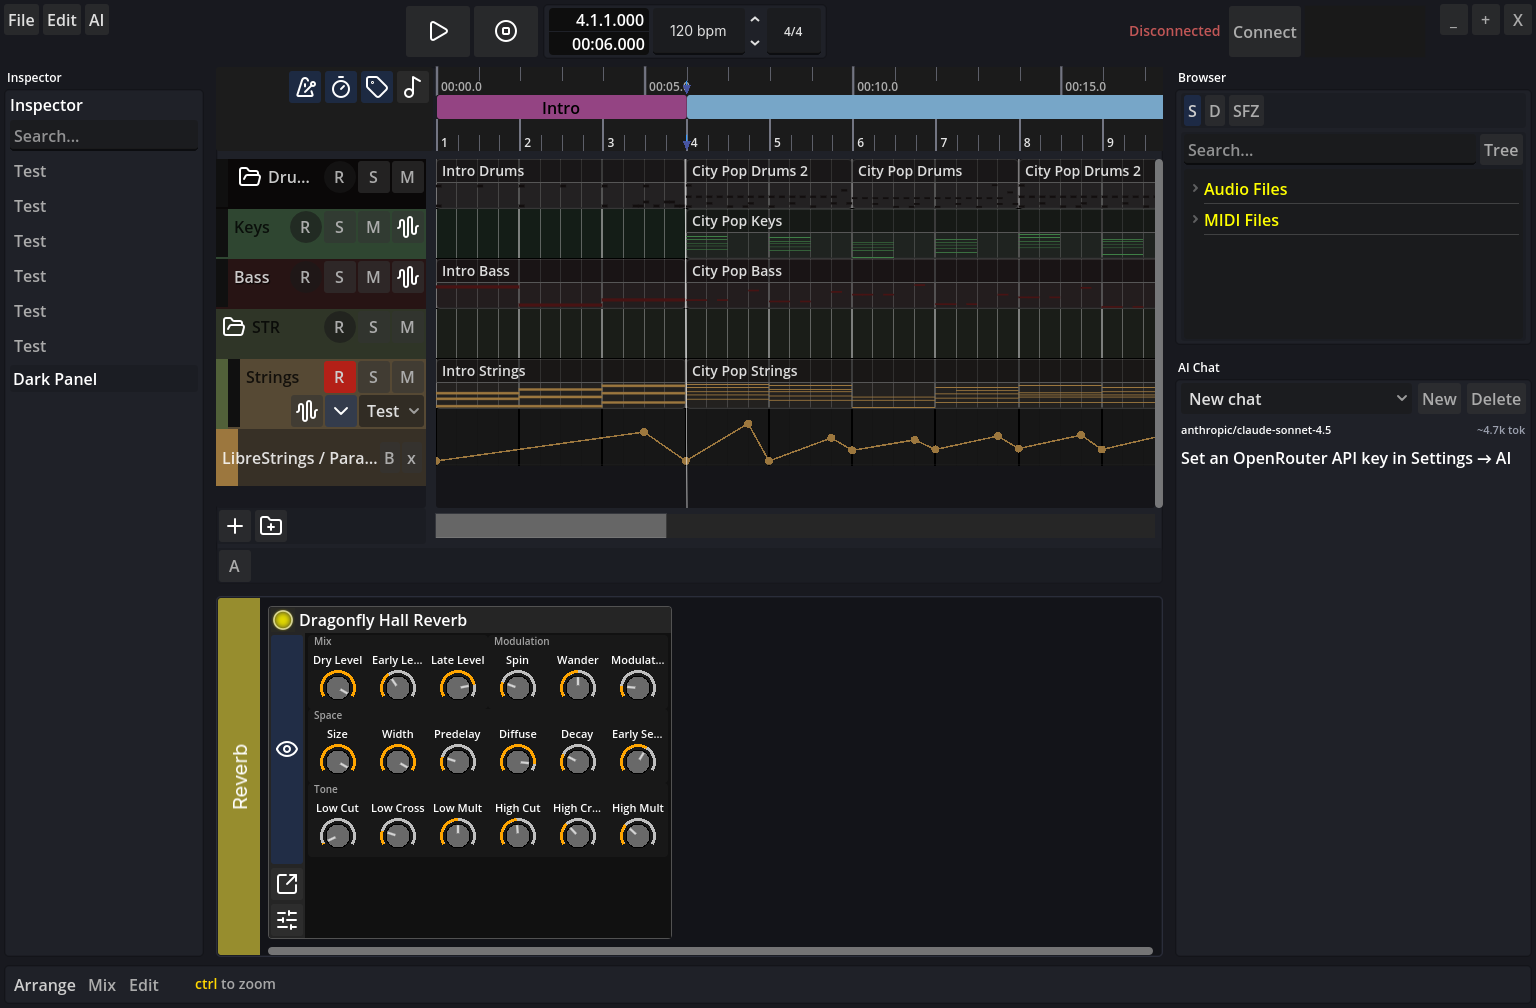
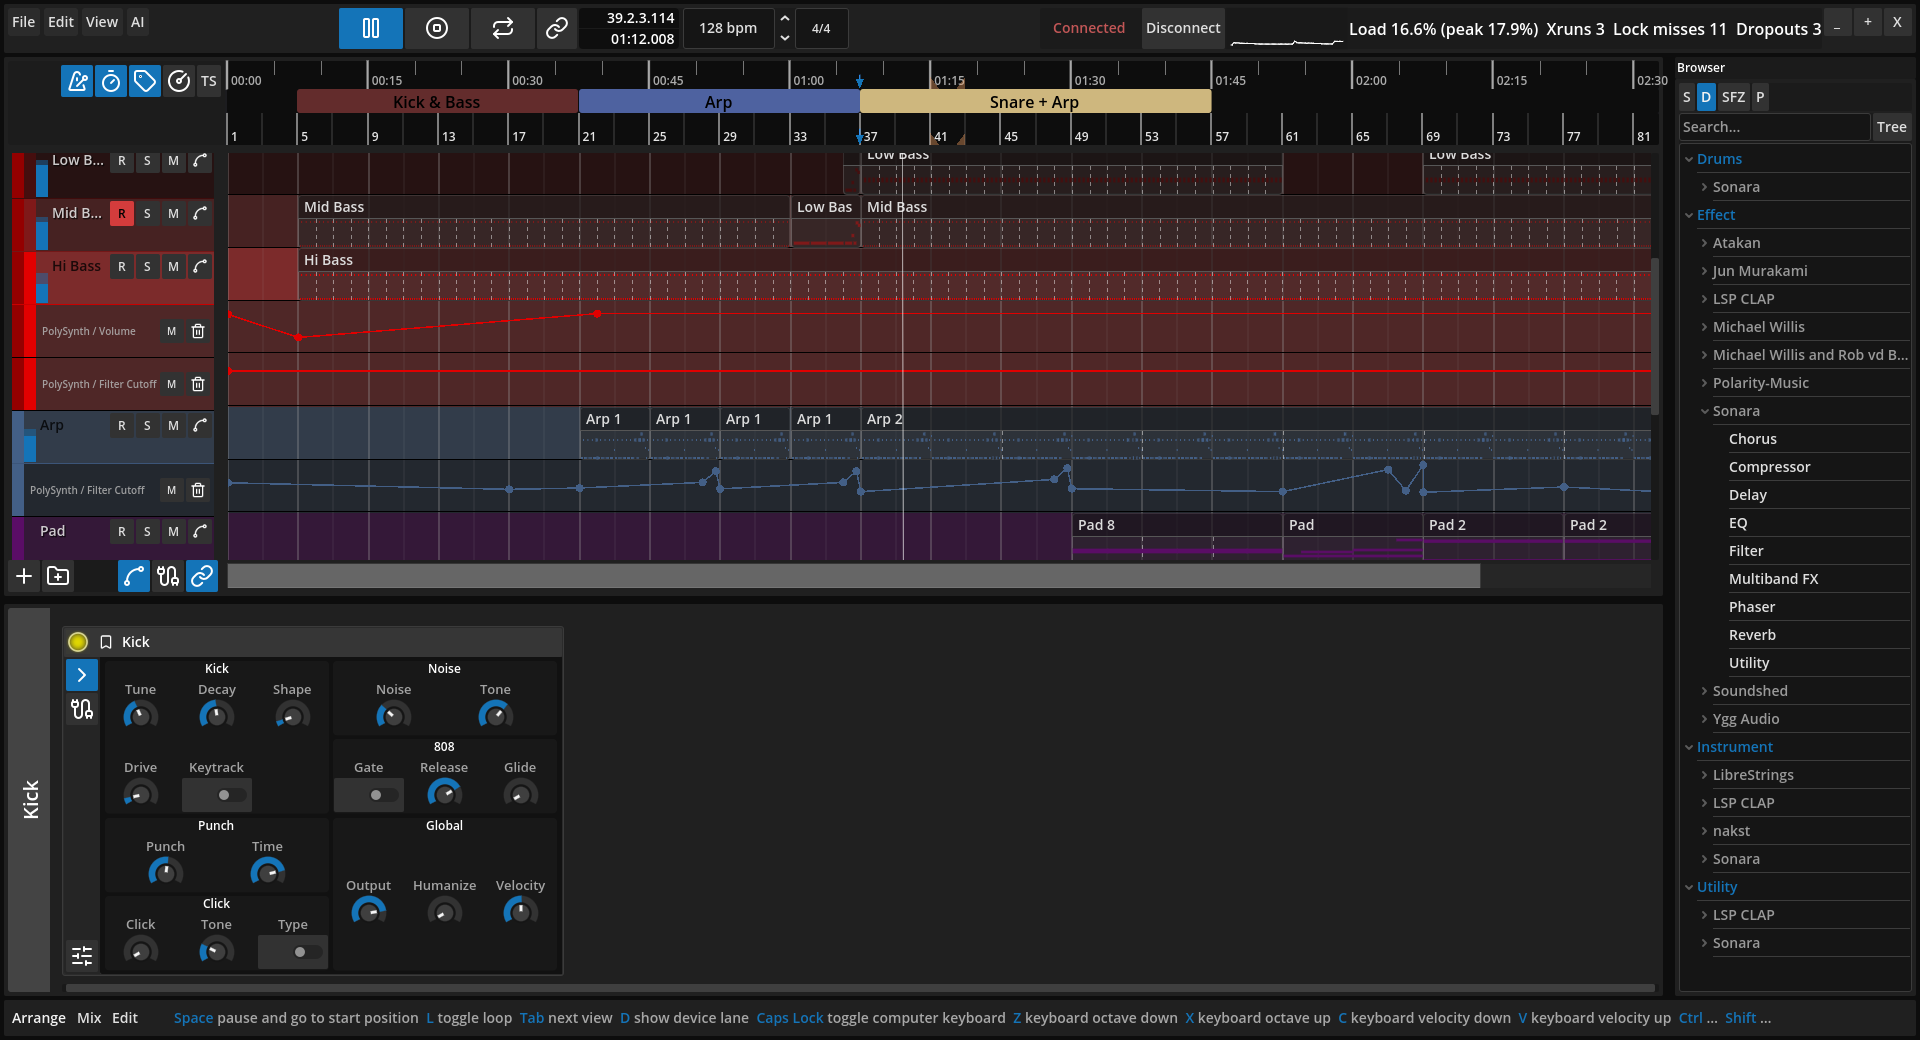
updated README.md

diff --git a/README.md b/README.md
@@ -1,12 +1,14 @@
-# Sonara
+![Sonara](Godot/assets/sonara/logo_image.png)
 
-Linux-first DAW: Godot 4 for the UI, Rust for the audio engine, OSC between them.
+Sonara is a Linux-first DAW. It's a Rust audio engine and a Godot 4 UI.
+
+It is close to a beta release - most of the basic features are in, plus many quality of life features that other DAWS don't have, such as built-in support for SFZ, A powerful Drum Machine, Sampler with multisampling and automatic note mapping (keyswitches etc).
+
+The goal of sonara is to provide a seamless, frictionless UI that makes it fun to composer, arrange and mix music - whether you place notes using a mouse, the computer keyboard or by midi keyboard.
+
+I don't build binaries yet, but will soon. If you'd like to try, download the repo and follow the instructions to build it - it's fairly straight-forward. It's early though, so expect some bugs here and there.
 
 ![Sonara arranger with MIDI clips, an automation lane and a CLAP reverb in the device lane](screenshot_01.png)
-
-> [!WARNING]
-> Sonara is in early development (alpha). Expect bugs, missing features and project-format
-> changes between versions. Don't trust it with work you can't afford to lose.
 
 ## Features
 
@@ -21,16 +23,19 @@ Linux-first DAW: Godot 4 for the UI, Rust for the audio engine, OSC between them
   plugins can be reloaded with their state. Plugins can share host processes (per plugin, per
   vendor or all together). Plugin GUIs are supported, and plugins without one get a generated
   panel.
-- **Live MIDI**: MIDI keyboards and a virtual keyboard, routed to armed channels.
 - **Audio settings**: pick the output device, sample rate and buffer size from the UI.
 - **Asset browser**: audio files, MIDI files, SFZ instruments and devices.
 - **Undo/redo** for editing.
 - **AI assistant** (optional): chat that can read and edit the project, via OpenRouter.
 
+- Simple, customizable theme system.
 ## Current limitations
 
-- Audio clips have limited features.
-- No audio export or rendering yet.
+- Midi editor has limited power features such as mirror, stretch, chord-entry and the like.
+- The audio engine needs performance improvements, especailly for real-time recording.
+- There is no support for hardware midi controllers yet.
+- Only supports wav audio files.
+- Themeing only supports dark mode currently.
 - Linux only.
 
 ## Prerequisites

diff --git a/AGENTS.md b/AGENTS.md
@@ -112,7 +112,7 @@ The full OSC address reference is in `docs/subsystems/osc-protocol.md`. When you
 
 - `CONTEXT.md` is the domain glossary and `docs/adr/` holds the decision records. Read the ADRs that touch the area you're working in. Use the glossary's terms in issues, proposals and test names. If your change contradicts an ADR, say so explicitly instead of silently overriding it.
 - Issues live in GitHub Issues (petterthowsen/Sonara); use the `gh` CLI (`gh issue list/view/create/comment/edit/close`).
-- Triage labels: `needs-triage`, `needs-info`, `ready-for-agent` (fully specified, ready for an AFK agent), `ready-for-human`, `wontfix`. Area labels: `engine`, `godot`, `device`, `builtins`, `arranger`, `editor`, `mixer`, `ai`, `export`.
+- Triage labels: `needs-triage`, `needs-info`, `ready-for-agent` (fully specified, ready for an AFK agent), `ready-for-human`, `wontfix`. Area labels: `engine`, `godot`, `device`, `builtins`, `arranger`, `editor`, `midi-editor`, `mixer`, `ai`, `export`.
 
 ## Project tracking
 
